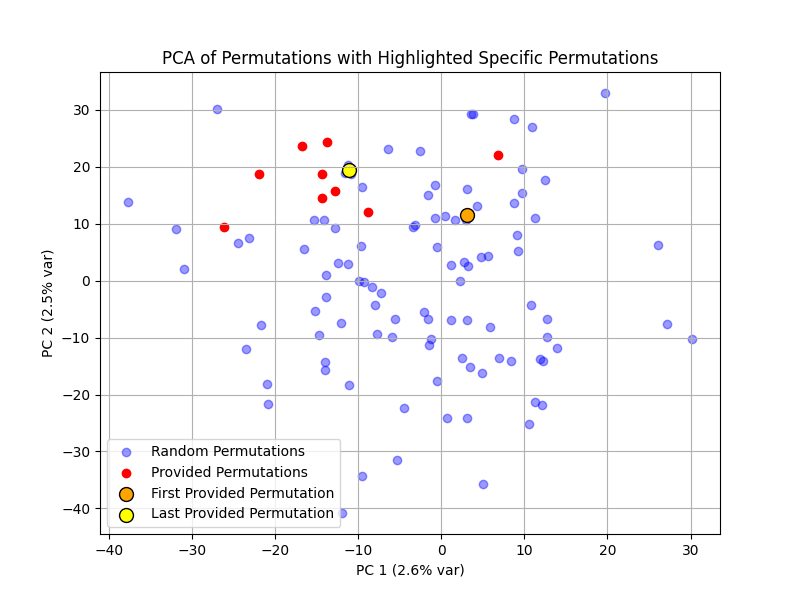
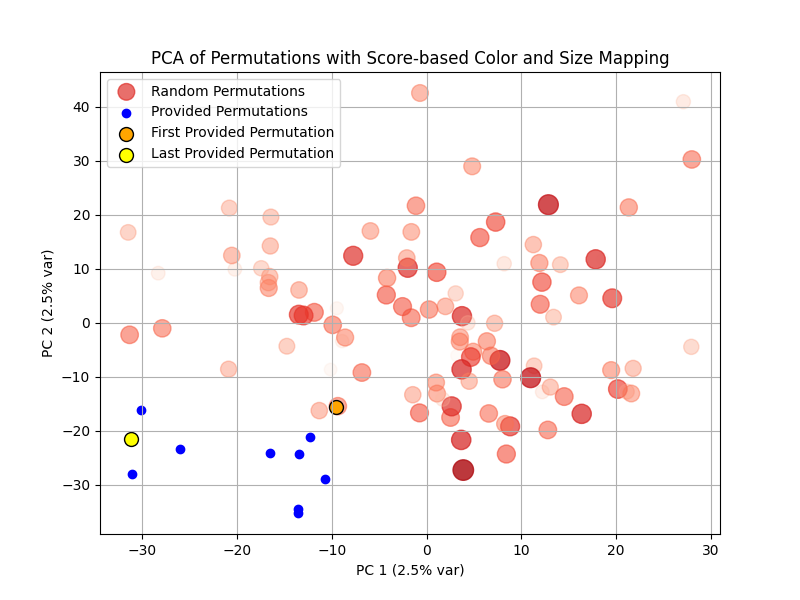
Update color scheme in PCA visualization for better distinction between random and provided permutations

diff --git a/vizualization.py b/vizualization.py
@@ -49,7 +49,7 @@ def plot_permutations_with_pca(permutations_to_plot, objective_function):
     plt.scatter(
         random_pca[::f, 0],
         random_pca[::f, 1],
-        c=plt.cm.gray(normalized_scores[::f]),
+        c=plt.cm.Reds(normalized_scores[::f]),
         alpha=normalized_scores[::f],
         s=sizes[::f],
         label="Random Permutations",
@@ -59,7 +59,7 @@ def plot_permutations_with_pca(permutations_to_plot, objective_function):
     plt.scatter(
         specific_pca[:, 0],
         specific_pca[:, 1],
-        c="red",
+        c="blue",
         alpha=1,
         label="Provided Permutations",
     )
